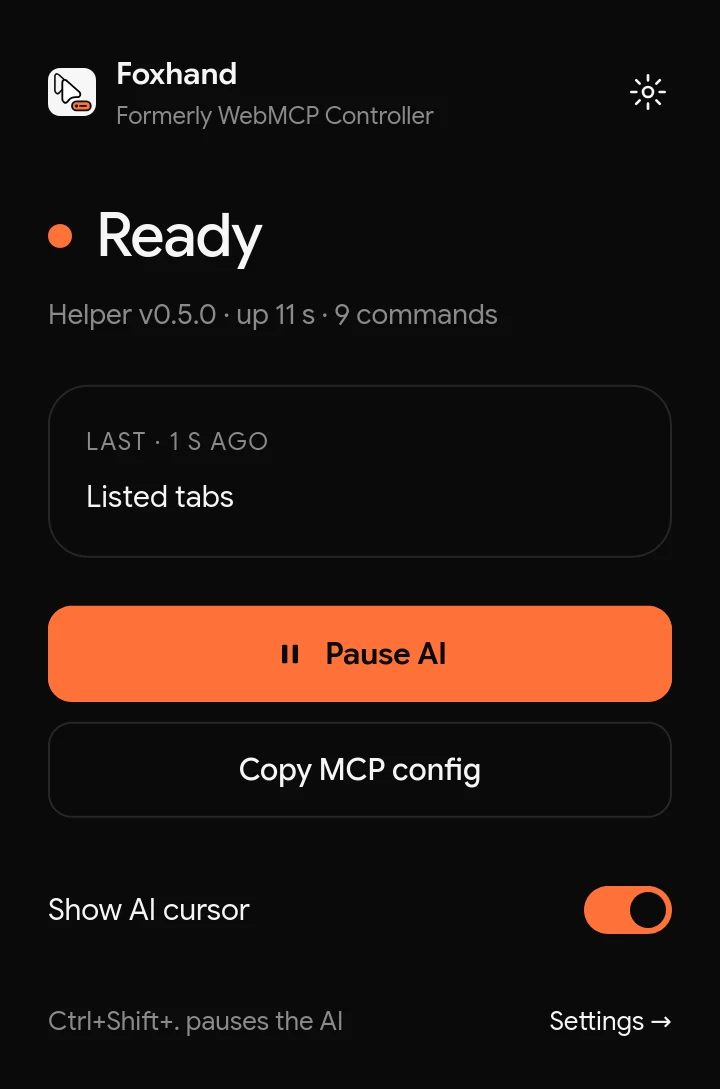
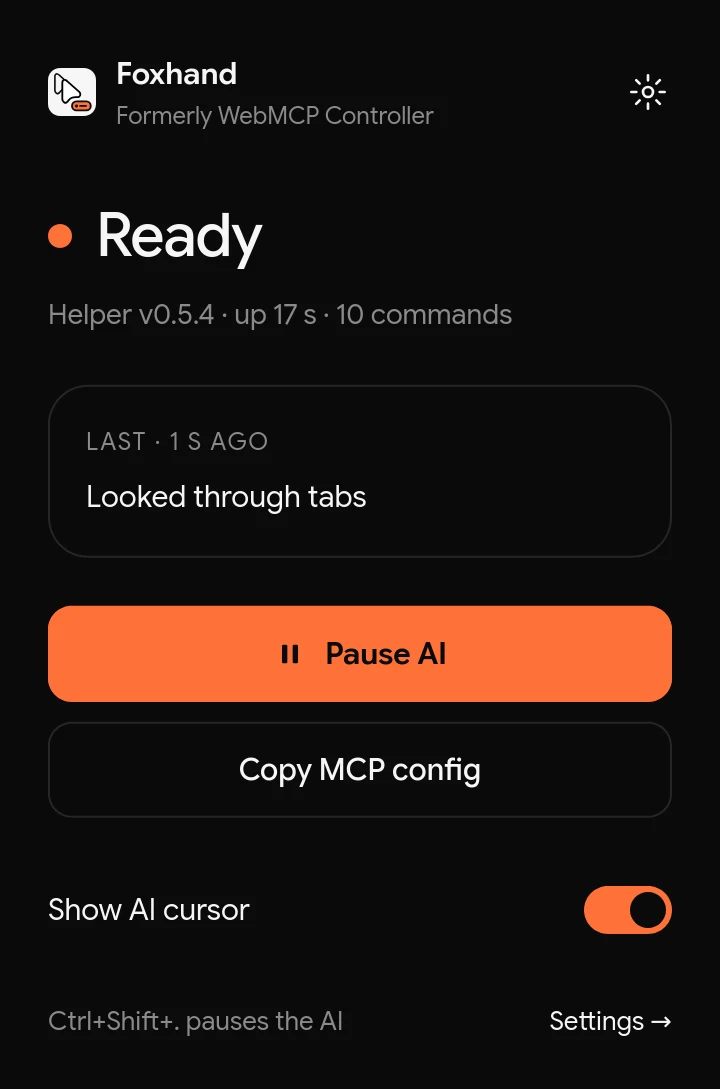
Listing, site and screenshots for 0.5.4; steady orphan-helper test
The AMO listing, README and site mention cross-origin iframes and the new
detection. Site screenshots retaken from a real 0.5.4 run. The host test's
dying parent now waits for the helper to start, so a slow start can't make
it begin as an orphan.

Changed region(s): [[0.1222, 0.4371, 0.5194, 0.4683], [0.4583, 0.281, 0.7028, 0.3122], [0.275, 0.281, 0.4278, 0.3122]]

diff --git a/site/index.html b/site/index.html
@@ -220,7 +220,7 @@ http_headers = { Authorization = "Bearer &lt;token&gt;" }</pre></div>
         </li>
       </ol>
       <figure>
-        <img class="shot" src="shots/setup.webp" width="1584" height="1817" alt="Foxhand's setup page. Step 1, Install the helper app, is checked: Helper v0.5.0 is running. Step 2, Connect your AI, is checked: Connected. Your AI just did: Listed tabs." loading="lazy" style="background:var(--bg)">
+        <img class="shot" src="shots/setup.webp" width="1584" height="1817" alt="Foxhand's setup page. Step 1, Install the helper app, is checked: Helper v0.5.4 is running. Step 2, Connect your AI, is checked: Connected. Your AI just did: Looked through tabs." loading="lazy" style="background:var(--bg)">
         <figcaption>The setup page, with both steps done. The token is hidden here.</figcaption>
       </figure>
     </div>
@@ -261,7 +261,9 @@ http_headers = { Authorization = "Bearer &lt;token&gt;" }</pre></div>
     <ul class="fixes" aria-label="Built for real pages">
       <li>Page dialogs (<code>alert</code>, <code>confirm</code>) never freeze an action.</li>
       <li>Links that open a new tab report which tab.</li>
-      <li>Same-origin iframes and shadow DOM are readable.</li>
+      <li>Iframes from other sites (cookie banners, sign-in buttons) and shadow DOM, open or closed, can be read and used.</li>
+      <li>Buttons made from plain divs, icon-only buttons and buttons that only show on hover are found.</li>
+      <li>Typing sends real key presses, so autocomplete, input masks and rich editors work.</li>
       <li>Snapshots wait for pages that render after loading.</li>
     </ul>
   </section>
@@ -271,7 +273,7 @@ http_headers = { Authorization = "Bearer &lt;token&gt;" }</pre></div>
     <h2 id="control-h">It's your browser, so you can always see and stop it.</h2>
     <div class="control">
       <figure>
-        <img class="shot" src="shots/popup.webp" width="720" height="1089" alt="The Foxhand toolbar popup: Ready, Helper v0.5.0, last action Listed tabs, a Pause AI button, Copy MCP config, and Show AI cursor switched on." loading="lazy">
+        <img class="shot" src="shots/popup.webp" width="720" height="1089" alt="The Foxhand toolbar popup: Ready, Helper v0.5.4, last action Looked through tabs, a Pause AI button, Copy MCP config, and Show AI cursor switched on." loading="lazy">
         <figcaption>The toolbar popup.</figcaption>
       </figure>
       <dl class="facts">

diff --git a/README.md b/README.md
@@ -41,9 +41,12 @@ the article. The orange bubble is the AI saying what it's doing.*
   dragging, uploads, bookmarks, history, downloads, cookies and a persistent
   notebook for the agent.
   See [Tools](#tools).
-- **Built for real pages.** Page dialogs (`alert`, `confirm`) never freeze an
-  action, links that open a tab report the new tab, same-origin iframes are
-  readable, and snapshots wait for pages that render after loading.
+- **Built for real pages.** The snapshot finds what usually needs workarounds:
+  buttons made from plain divs, icon-only and hover-only controls, closed
+  shadow DOM, and iframes from other sites such as cookie banners and sign-in
+  buttons. Typing sends real key presses, so autocomplete, input masks and rich
+  editors work. Page dialogs never freeze an action, and links that open a tab
+  report the new tab.
 - **Guided setup in your language.** A setup page opens on install. The add-on
   speaks English, Spanish, French, German and Simplified Chinese.
 
